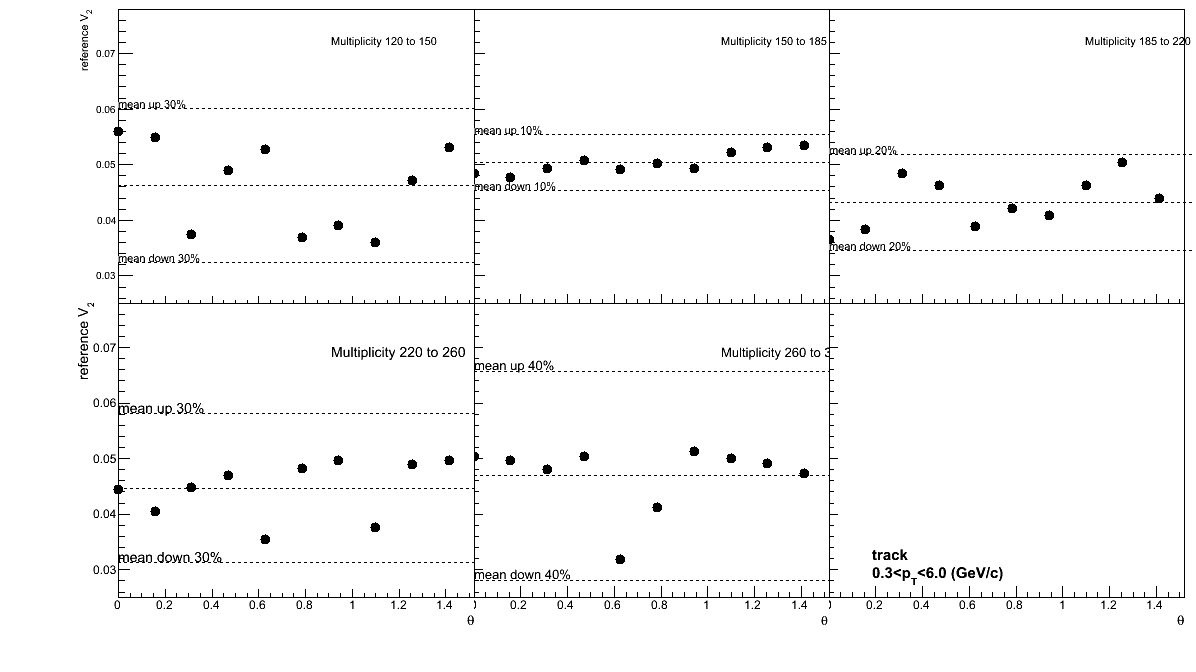
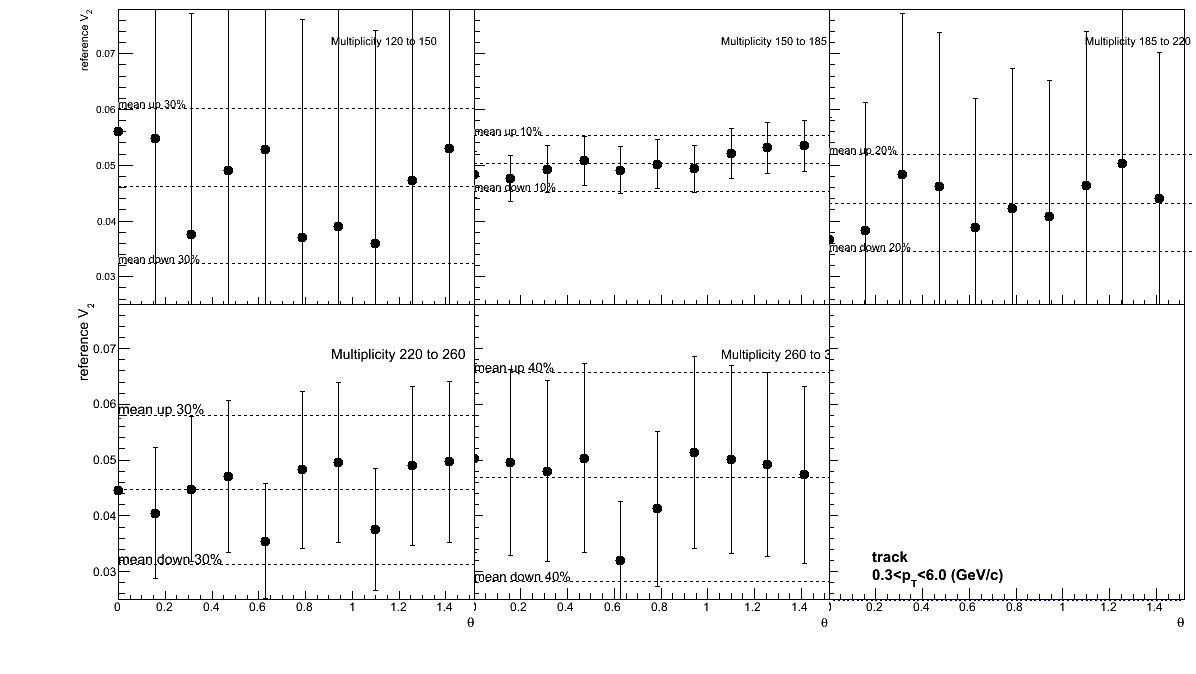
error bar for V2vstheta

diff --git a/flow/LYZ/v2/theta10/tracknormcpt03to6/plotV2vstheta.C b/flow/LYZ/v2/theta10/tracknormcpt03to6/plotV2vstheta.C
@@ -3,7 +3,7 @@
 
 void plotV2vstheta(){
 	TFile *f;
-        int isSum=1;
+        int isSum=0;
         const int ntotbin=5;
         const int trkpointmin[ntotbin] = {120,150,185,220,260};
         const int trkpointmax[ntotbin] = {150,185,220,260,300};
@@ -34,9 +34,11 @@ void plotV2vstheta(){
 	}
 	TVectorD* vecVmean = (TVectorD*)f->Get(Form("D_%d/Vmean",xbin));
         TVectorD* vecV = (TVectorD*)f->Get(Form("D_%d/D_0/V",xbin));
+        TVectorD* vecdeltaV = (TVectorD*)f->Get(Form("D_%d/D_0/deltaV",xbin));
 
         double Vmean = (*vecVmean)[0];
         double *V = vecV->GetMatrixArray();
+        double *deltaV = vecdeltaV->GetMatrixArray();
         double theta[ntheta];
         for(int itheta=0;itheta<ntheta;itheta++){
             theta[itheta]=itheta*TMath::Pi()/ntheta/nn;
@@ -45,7 +47,7 @@ void plotV2vstheta(){
         double maxper = (double)(maxper10+1)/10;
         c1->cd(trkbin+1);
         hFrame->Draw();
-        TGraph *gV2theta = new TGraph(ntheta,theta,V);
+        TGraphErrors *gV2theta = new TGraphErrors(ntheta,theta,V,0,deltaV);
         gV2theta->SetMarkerStyle(20);
         gV2theta->SetMarkerSize(1.3);
         gV2theta->SetMarkerColor(1);
